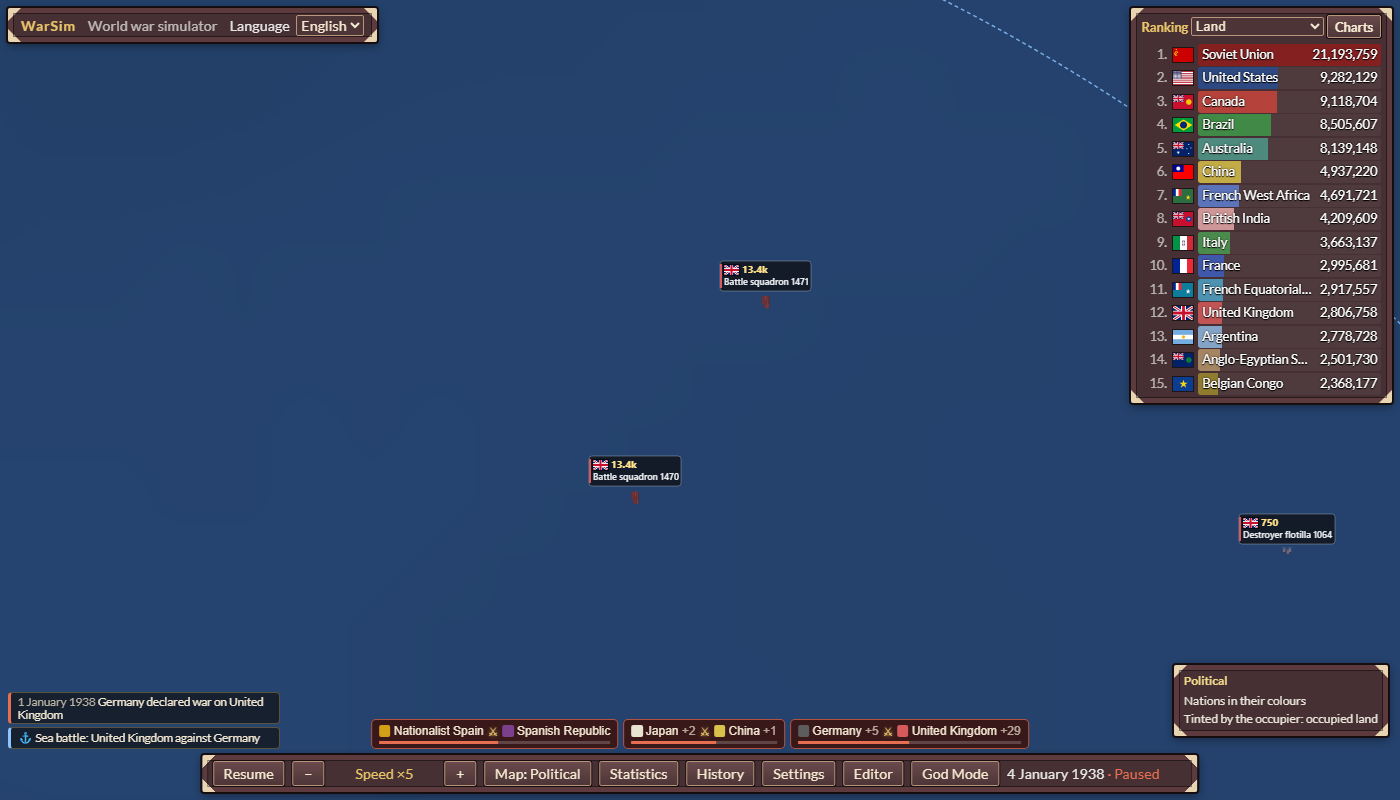
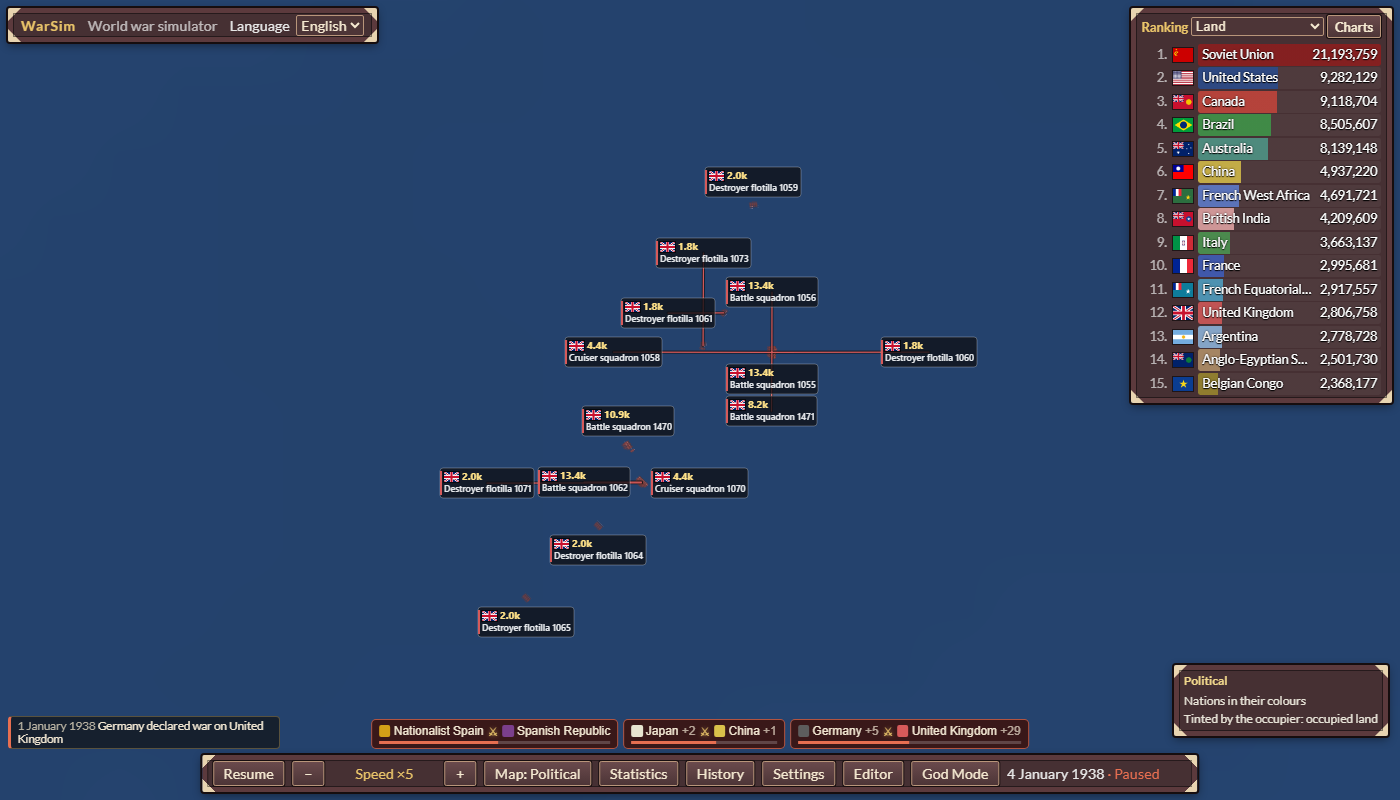
editorForces1938: the North Sea standoff restated to ADR-608 (PLAN 7.59)
check:review before critic run 12 found the spec red: "British fleet
1470 at its place on day 3", 7.8 cells off. Bisected to 7bb2427b (PLAN
7.59: a placed fleet at war holds its sea), which restated the unit test
(fleetStation1938) and not this spec, as its gate ran only the specs it
changed. Measured hour by hour: Britain's pair sails onto Germany's
places, fights there from hour 27 to 46, Germany's pair breaks off east,
Britain's stands where it fought. The spec now asks, as the unit test:
a British-German sea battle at the German places within 3 days, and each
British fleet in being on day 3, at its place or within 3 cells of that
battle. The day-3 pictures are centred on the pair where it is.

Claude-Session: https://claude.ai/code/session_01P4MUDZ9CYcUwjizmLSVXWV

diff --git a/tests/e2e/editorForces1938.spec.ts b/tests/e2e/editorForces1938.spec.ts
@@ -131,9 +131,10 @@ test("the editor names a holder's means: Czechoslovakia's bomber group at Prague
 // PLAN 7.22c (critic run 8, naval 6: "placed fleets wander away at once: the North Sea point was
 // empty on day 3", `critic/shots/c8g_5591_21_northsea_day3_30m.png`): the critic's standoff. Two
 // German and two British battle squadrons placed by clicks in the North Sea, the scenario exported
-// and started from the title, Germany at war with Britain, the AI on: on day 3 Britain's pair is at
-// its places (Germany's met the Home Fleet; a fleet beaten lets go of its place, `fleetStation1938`).
-test("the critic's North Sea standoff: fleets placed in the editor hold their places into the war (PLAN 7.22c)", async ({ page }, info) => {
+// and started from the title, Germany at war with Britain, the AI on: on day 3 Britain's pair holds
+// its sea (PLAN 7.59, ADR-608): it has fought Germany's pair at Germany's places and is there or back
+// at its own (a fleet beaten lets go of its place, `fleetStation1938`).
+test("the critic's North Sea standoff: fleets placed in the editor hold their sea into the war (PLAN 7.22c, 7.59)", async ({ page }, info) => {
   test.setTimeout(300_000);
   await page.setViewportSize({ width: 1400, height: 800 });
   await page.goto('/?scenario=1938&paused=1&seed=5591');
@@ -181,14 +182,29 @@ test("the critic's North Sea standoff: fleets placed in the editor hold their pl
 
   // Germany declares war on Britain; three days of the AI's war.
   await page.evaluate(([g, e]) => window.__warsim!.sim.command({ kind: 'declareWar', attacker: g!, defender: e! }), [GER, ENG]);
-  await page.evaluate(async () => {
+  const hours = await page.evaluate(async ({ placed, g, e }) => {
     const { sim, view } = window.__warsim!;
-    const t = (await sim.step(3 * 24)).tick;
-    await new Promise<void>((done) => {
-      const wait = (): void => (view!.lastTick >= t ? done() : void setTimeout(wait, 10));
-      wait();
-    });
-  });
+    const out: { h: number; battles: { x: number; y: number }[]; fleets: ({ x: number; y: number } | null)[] }[] = [];
+    for (let h = 1; h <= 3 * 24; h++) {
+      const t = (await sim.step(1)).tick;
+      await new Promise<void>((done) => {
+        const wait = (): void => (view!.lastTick >= t ? done() : void setTimeout(wait, 10));
+        wait();
+      });
+      const battles = view!.seaBattles().filter((b) => (b.a === g && b.b === e) || (b.a === e && b.b === g)).map((b) => ({ x: b.x, y: b.y }));
+      const s = await sim.inspect(true);
+      const fleets = placed.map((id) => {
+        const f = s.formations.find((f) => f.id === id);
+        return f ? { x: f.x, y: f.y } : null;
+      });
+      out.push({ h, battles, fleets });
+    }
+    return out;
+  }, { placed, g: GER, e: ENG });
+  // The British–German sea battles of the three days, by where they were fought.
+  const fought = hours.flatMap((r) => r.battles.map((b) => ({ h: r.h, ...b })));
+  const cells = (a: { x: number; y: number }, b: { x: number; y: number }): number => Math.max(Math.abs(a.x - b.x), Math.abs(a.y - b.y));
+  console.log(`British–German sea battles: ${fought.length} battle-hours, from hour ${fought[0]?.h ?? '-'} to ${fought.at(-1)?.h ?? '-'}`);
   const now = await page.evaluate(async (placed) => {
     const s = await window.__warsim!.sim.inspect(true);
     return placed.map((id) => {
@@ -198,12 +214,23 @@ test("the critic's North Sea standoff: fleets placed in the editor hold their pl
   }, placed);
   const offBy = at.map((a, i) => (now[i] ? Math.max(Math.abs(now[i]!.x - a.x), Math.abs(now[i]!.y - a.y)) : Infinity));
   console.log(`day 3 of the war: the placed fleets ${at.map((a, i) => `${a.id} (${a.nation === GER ? 'German' : 'British'}) ${Number.isFinite(offBy[i]!) ? `${offBy[i]!.toFixed(1)} cells off` : 'gone'}`).join(', ')}`);
+  // PLAN 7.59 (ADR-608): at war a placed fleet holds its sea; Britain's pair goes for Germany's,
+  // placed 8–10 cells off in the same sea, and fights it there (the North Sea point is not empty:
+  // the critic's objection). Measured on 2026-10-22: the battle from hour 27 to 46 at Germany's
+  // places, Germany's pair broken off east, Britain's standing where it was fought. Before 7.59 the
+  // pair stood at its places and fought nothing.
+  const german = at.filter((a) => a.nation === GER);
+  const inSea = fought.filter((b) => german.some((g) => cells(b, g) <= 3));
+  expect(inSea.length, 'a British–German sea battle at the German places within 3 days').toBeGreaterThan(0);
   for (const [i, a] of at.entries()) {
     if (a.nation !== ENG) continue;
-    expect(offBy[i], `British fleet ${a.id} at its place on day 3`).toBeLessThanOrEqual(3);
+    const f = now[i];
+    expect(f, `British fleet ${a.id} in being on day 3`).not.toBeNull();
+    const byBattle = Math.min(...inSea.map((b) => cells(f!, b)));
+    expect(offBy[i]! <= 3 || byBattle <= 3, `British fleet ${a.id} on day 3: ${offBy[i]!.toFixed(1)} cells off its place, ${byBattle.toFixed(1)} off the battle`).toBe(true);
   }
-  // The critic's view of the day: the British pair's point at 30 m/px.
-  const [bx, by] = [(at[2]!.x + at[3]!.x) / 2, (at[2]!.y + at[3]!.y) / 2];
+  // The critic's view of the day: the British pair where it is on day 3, at 300 and 30 m/px.
+  const [bx, by] = [(now[2]!.x + now[3]!.x) / 2, (now[2]!.y + now[3]!.y) / 2];
   await page.evaluate(({ x, y }) => {
     const v = window.__warsim!.view!;
     v.controller.set({ cx: x, cy: y, scale: (v.metresPerPx * v.controller.cam.scale) / 300 });
@@ -213,7 +240,7 @@ test("the critic's North Sea standoff: fleets placed in the editor hold their pl
   await page.evaluate(({ x, y }) => {
     const v = window.__warsim!.view!;
     v.controller.set({ cx: x, cy: y, scale: (v.metresPerPx * v.controller.cam.scale) / 30 });
-  }, { x: at[2]!.x, y: at[2]!.y });
+  }, { x: now[2]!.x, y: now[2]!.y });
   await page.waitForFunction(() => window.__warsim!.view!.individualCount > 0, null, { timeout: 15_000 });
   await page.waitForTimeout(1500);
   await page.screenshot({ path: path.resolve('docs/evidence/7.22/c-northsea-day3-30m.png') });
